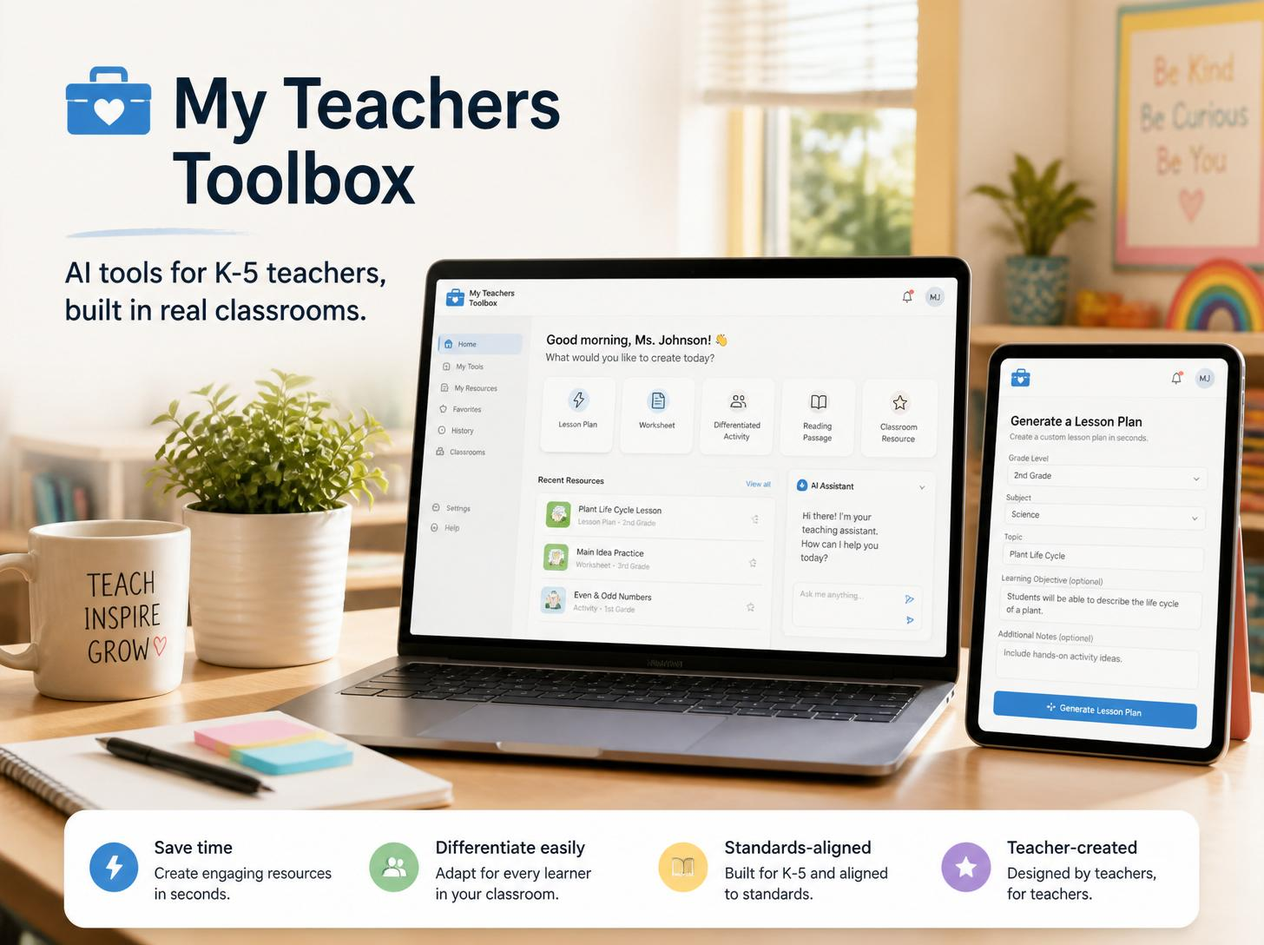
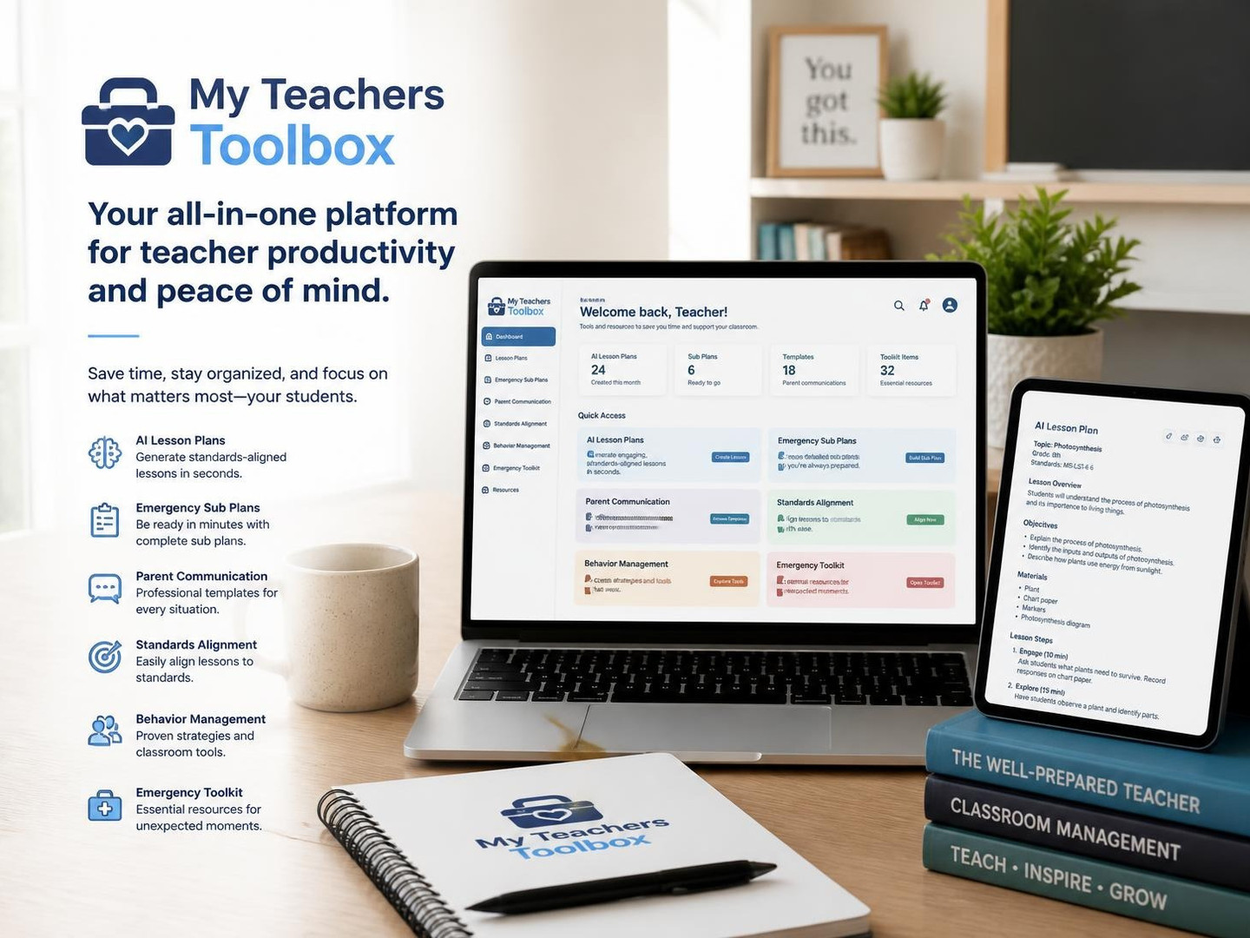
Fix sitemap and refresh product content
This change updates the My Teacher's Toolbox product marketing copy, stack details, pricing, feature architecture, and hero aspect ratio support for the 4:3 product image. It also replaces the product image and corrects the sitemap/robots metadata to reflect the app's HashRouter setup, removing invalid crawl targets and keeping the homepage as the only valid indexed URL until the app switches to browser routing.

diff --git a/src/data/products.js b/src/data/products.js
@@ -8,163 +8,183 @@ export const products = [
     status: 'live',
     category: 'EdTech SaaS',
     summary:
-      'A suite of AI-assisted planning, worksheet, and report-writing tools built for elementary teachers drowning in admin work.',
+      'A production planning, communication, and emergency-response platform for elementary teachers — AI week plans, sub bundles in under a minute, live standards search for all 50 states, and a parent portal, on one subscription.',
     problem:
-      'K-5 teachers spend 7–10 unpaid hours a week on lesson prep, differentiated worksheets, and report comments — work that AI could compress into minutes, but existing tools were built for generic "content creation," not the classroom.',
+      'K-5 teachers lose 7–10 unpaid hours a week to lesson prep, sub plans, standards paperwork, and parent communication. The tools that exist are priced for districts, designed for administrators, or generic "content generators" that have never met a five-minute prep period — and none of them help at 5am when a teacher wakes up sick and still owes a substitute a full day of plans.',
     solution:
-      'A focused toolbox built by a developer whose wife has 20+ years of K-5 classroom experience: standards-aligned lesson generators, instant worksheet differentiation by reading level, and report-comment writers trained on real teacher voice — wrapped in an interface simple enough to use during a five-minute prep period.',
+      'One platform, built by a developer whose wife has taught K-5 for twenty years and who uses it every day. A full week of standards-aligned plans generates in about ninety seconds, streamed so she watches it build. An emergency sub bundle — routines, schedule, student notes, activities — comes out in under a minute. Standards search runs live against the actual framework for whichever of the 50 states she teaches in, not a generic Common Core dump. Parents get a read-only class portal with no account to create. And anyone can walk the entire product without signing up, through a fenced public demo.',
     stack: [
-      'Next.js 15', 'React 19', 'TypeScript', 'Supabase', 'PostgreSQL',
-      'Stripe', 'Tailwind CSS', 'DeepSeek', 'OpenAI Embeddings',
-      'jsPDF', 'pdf-lib', 'docx', 'Zod', 'Sentry', 'Vercel',
+      'Next.js 15', 'React 19', 'TypeScript 5.7', 'Supabase', 'PostgreSQL',
+      'Row Level Security', 'Stripe v17', 'Tailwind CSS', 'Radix UI',
+      'Framer Motion', 'OpenRouter', 'DeepSeek V3', 'Perplexity Sonar Pro',
+      'OpenAI Embeddings', 'Groq Whisper', 'jsPDF', 'pdf-lib', 'docx',
+      'mammoth', 'Zod', 'Vitest', 'Google Drive API', 'Vercel', 'Node 22',
     ],
     results: [
       { label: 'Avg. weekly time saved', value: '6.5 hrs' },
-      { label: 'Uptime', value: '99.98%' },
+      { label: 'State standards frameworks', value: '50' },
       { label: 'Grade levels covered', value: 'K–5' },
     ],
     image: '/images/products/product-my-teachers-toolbox.jpg',
+    // 4:3 source — the detail hero renders at 4:3 so the logo and the desk
+    // shot below it survive; every other product stays on the 16:10 default.
+    heroAspect: '4/3',
 
     // ── Expanded showcase content ──────────────────────────────────────────────
     stats: [
-      { number: '81K+', label: 'Lines of Code' },
-      { number: '99', label: 'API Routes' },
-      { number: '71', label: 'Components' },
-      { number: '12', label: 'Emergency Sections' },
-      { number: '5', label: 'AI Systems' },
-      { number: '15', label: 'Dashboard Modules' },
+      { number: '78K+', label: 'Lines of TypeScript' },
+      { number: '105', label: 'API Routes' },
+      { number: '68', label: 'Database Tables' },
+      { number: '41', label: 'Dashboard Screens' },
+      { number: '50', label: 'States Covered' },
+      { number: '10', label: 'Emergency Categories' },
     ],
     overview: [
-      'My wife Criste has been teaching K-5 for over twenty years. Every morning she juggled five different apps, three browser tabs, and a paper binder just to plan one day of instruction. When she woke up sick at 5am, creating substitute plans meant an hour of frantic typing before the school day started. The tools available were designed for administrators, priced for districts, or built by people who\'d never stood in front of a classroom.',
-      'So I built her one. Not a prototype — a real platform. AI-powered lesson plans in 90 seconds. Emergency sub plans ready before the bus arrives. Parent communication templates, standards alignment, behavior management tools, and an entire emergency toolkit with 12 categories of solutions for everything that can go wrong in a school day. She uses it every single day — not because she has to, but because it actually saves her time.',
+      'My wife Criste has taught K-5 for over twenty years. Every morning she juggled five apps, three browser tabs, and a paper binder just to plan one day of instruction. When she woke up sick at 5am, writing substitute plans meant an hour of frantic typing before the first bus. The tools on the market were priced for districts, designed for administrators, or built by people who had never stood in front of twenty-four seven-year-olds.',
+      'So I built her one — and then I kept building. It is now 105 API routes and 68 database tables behind a 41-screen workspace: AI week plans in about ninety seconds, an emergency toolkit covering the ten categories of things that actually go wrong in a school day, standards search that queries the real framework for any of the 50 states, curriculum mapping, a parent portal, Google Drive export, and a public demo anyone can walk into without signing up. She still uses it every day. That is the only feature test that has ever mattered here.',
     ],
     features: [
       {
         icon: '🧠',
         name: 'AI Week Planner',
-        desc: 'Complete weekly lesson plans in 90 seconds. Enter your grade level, subjects, standards targets, and any special notes — the AI generates a full 5-day plan across all subjects with objectives, materials lists, differentiation strategies, and classroom management tips. Custom-engineered prompts (176 lines) ensure K-5 specificity rather than generic lesson content. Plans are standards-aligned by default and can be refined section-by-section with the inline refinement toolbar. Save plans to your library, duplicate and modify for the following week, or export directly to PDF and DOCX.',
-        tags: '90-second generation · 5-day full coverage · standards-aligned · inline refinement · save, duplicate, export',
+        desc: 'A complete five-day plan across every subject in about ninety seconds. Enter grade level, subjects, standards targets and any notes, and the planner returns objectives, materials, differentiation, and management notes for each day. The prompt behind it is 194 lines of K-5-specific engineering rather than a generic education template, and generation streams over server-sent events so the teacher watches the week build instead of staring at a spinner. Any single day or single subject can be regenerated on its own without disturbing the rest of the week, and any section can be refined inline. Plans save to a library, duplicate forward for the following week, and export to PDF or DOCX.',
+        tags: '~90-second full week · streamed generation · regenerate one day or one subject · inline refinement · PDF + DOCX export',
       },
       {
         icon: '🚨',
         name: 'Emergency Toolkit',
-        desc: 'The most comprehensive emergency resource system built for K-5 teachers. 12 categories of solutions covering every scenario that disrupts a school day: substitute readiness, behavior intervention, safety protocols, SEL support, incident documentation, coverage coordination, parent communication, field trip logistics, assessment tools, planning pivots, timesaving shortcuts, and calming strategies. Sub plans generate in under 60 seconds — class routines, schedules, student notes, and activity instructions all in one document. Accessible from every page of the platform.',
-        tags: '12 categories · sub plans in 60 seconds · behavior plans · safety protocols · always accessible',
+        desc: 'Ten categories covering what actually goes wrong in a school day: sub readiness, student safety and medical, coverage and schedule changes, planning triage, classroom management, assessment crunch, parent communication, SEL and student support, logistics and materials, and time savers. Thirty-nine dedicated endpoints sit behind them — sub bundles, behavior plans, incident reports, allergy cards, calming strategies, room reset checklists, supply lists, conference kits, translated parent emails. The emergency sub bundle assembles routines, schedule, student notes, and activities into one document in under a minute. Four one-tap actions are pinned at the top of the page for the moments when there is no time to browse anything.',
+        tags: '10 categories · 39 endpoints · sub bundle in under a minute · incident + allergy documentation · one-tap emergency actions',
+      },
+      {
+        icon: '📐',
+        name: 'Standards Search — All 50 States',
+        desc: 'Most standards tools ship a Common Core dump and call it national coverage. This one carries the real framework name and Department of Education domain for all fifty states — Texas TEKS, Virginia SOL, Alabama Course of Study, and forty-seven others — and runs each query through Perplexity Sonar Pro with live web search scoped to that state\'s own DOE domain. Results come back as current standards with codes and full descriptions, attachable straight to a lesson plan. Coverage reporting shows what has been addressed across a unit and what has been missed. Common Core and NGSS remain available for the states that use them.',
+        tags: '50 state frameworks · live search scoped to each state DOE · codes + full descriptions · attach to plans · coverage gap reporting',
+      },
+      {
+        icon: '🏫',
+        name: 'Parent Portal',
+        desc: 'A public, read-only class page parents reach with a short code — no account, no app, no password reset email at 9pm. The teacher posts newsletters, homework, events, and announcements from the dashboard, pins what matters, and toggles each section on or off independently. Welcome message, grade level, and theme color are configurable, and the whole portal switches off in one click at the end of the year. It closes the loop the Communication Hub opens: templates and newsletters go out, and the portal is where they live afterwards.',
+        tags: 'code-based access · no parent account required · newsletters, homework, events, announcements · per-section visibility · one-click off',
       },
       {
         icon: '💬',
         name: 'Communication Hub',
-        desc: 'Every parent-facing communication a teacher needs, built in and ready to use. The Newsletter Builder generates professional class newsletters with classroom updates, upcoming events, learning highlights, and volunteer opportunities — with tone customization between formal, warm, and casual. The Email Template Library covers 30+ scenarios: field trip reminders, behavior notices, positive updates, IEP invitations, conference scheduling, and more. A Communication Log tracks every parent interaction by student.',
-        tags: 'newsletter builder · 30+ email templates · conference prep · communication log · PDF + email export',
+        desc: 'A newsletter builder with tone control between formal, warm, and casual. A template library covering the messages teachers actually have to write — behavior notices, positive updates, field trip reminders, IEP invitations, conference scheduling. A conference prep tool that assembles talking points per student. And a communication log that records every parent interaction against the student it concerned, so the history exists when it is needed. Emergency parent emails have their own generator, including translation, for the messages that cannot wait for a good moment.',
+        tags: 'newsletter builder · tone control · template library · conference prep · per-student communication log · translated parent emails',
       },
       {
-        icon: '📐',
-        name: 'Standards Search & Alignment',
-        desc: 'A fully searchable standards library with semantic search powered by OpenAI Embeddings. Search by keyword, grade level, domain, or subject and get instant results with full standard descriptions and sub-components. Alignment tools let you attach standards directly to lesson plans and verify complete coverage across units. Coverage reporting shows standards addressed, frequency, and flagged gaps. Standards data organized by Common Core ELA and Math, NGSS Science, and Social Studies frameworks.',
-        tags: 'semantic search · OpenAI Embeddings · coverage tracking · gap analysis · auto-tagging in AI plans',
+        icon: '🗺',
+        name: 'Curriculum Mapping',
+        desc: 'Scope and sequence above the week level. Curriculum units and year-long maps hold the long-range shape of instruction, and the week planner draws from them so daily plans and the map cannot quietly drift apart over a term. Pacing tools flag when a unit is running behind. Curriculum documents export in a format that survives being handed to an administrator without reformatting.',
+        tags: 'units + year-long maps · feeds the week planner · pacing triage · administrator-ready document export',
       },
       {
         icon: '📋',
         name: 'Daily Runsheet',
-        desc: 'Takes your weekly lesson plan and breaks it into an actionable minute-by-minute guide for each school day. The AI-generated runsheet adapts to your school\'s specific schedule blocks — specials, lunch, recess, intervention periods — and builds transitions, prep reminders, and material setup notes into the timing. Custom time blocks let you set your exact schedule. Runsheets print cleanly on a single page or display on-screen. Generated from your weekly plan automatically — no re-entering content.',
-        tags: 'minute-by-minute scheduling · custom time blocks · transition reminders · prep notes · auto-generated from weekly plan',
+        desc: 'Takes the weekly plan and breaks each day into a minute-by-minute guide that respects the school\'s real schedule — specials, lunch, recess, intervention blocks — with transitions, prep reminders, and material setup built into the timing rather than bolted on. Custom time blocks match the actual bell schedule. It is generated from the plan already written, so nothing is entered twice, and it prints cleanly on a single page for the desk.',
+        tags: 'minute-by-minute · custom bell schedule · transition + prep reminders · auto-generated from the weekly plan · single-page print',
       },
       {
         icon: '👥',
-        name: 'Student Teams & Collaboration',
-        desc: 'Full student roster management with grade team collaboration. Maintain a complete student list with grade level, notes, and flags. Professional-tier teachers can share resources across classrooms — send a lesson plan, activity, or document directly to another teacher on your grade team without leaving the platform. The collaboration system is designed around how actual grade teams work: asynchronous sharing, not real-time co-editing, because teachers are busy and have different prep periods.',
-        tags: 'student roster management · grade team sharing · resource pooling · private notes · async collaboration',
+        name: 'Students & Grade Teams',
+        desc: 'Full roster management with per-student notes, goals, action items, and communication history. Grade teams share resources asynchronously — send a plan, activity, or document to a colleague on the grade team, with version history and threaded comments on each shared resource. Asynchronous by design, not by limitation: grade teams have different prep periods, and real-time co-editing was never the shape of that problem.',
+        tags: 'roster + private notes · student goals and action items · async grade-team sharing · resource versions · threaded comments',
       },
       {
         icon: '📄',
-        name: 'Document Generator',
-        desc: 'A complete document pipeline for classroom materials. PDF generation via jsPDF and pdf-lib handles lesson plan exports, runsheets, curriculum documents, and any structured content from the platform. DOCX generation via the docx package creates editable Word documents. The Name Label Generator produces classroom-ready printable name tags and desk labels — Avery-compatible sizes, ready to print. Curriculum document builder creates scope-and-sequence documentation formatted for professional presentation to administrators.',
-        tags: 'PDF export · DOCX export · name label generator · curriculum documents · Avery-compatible label sizes',
+        name: 'Documents & Google Drive',
+        desc: 'PDF generation through jsPDF and pdf-lib, DOCX through the docx package, with multi-page headers, footers, and page numbering handled properly. The name label generator outputs Avery-compatible desk labels and name tags ready to print. Existing material can be read back in — mammoth for DOCX, pdf-parse for PDF — so a teacher\'s own documents can feed the tools rather than being retyped. Google Drive is wired in with full OAuth connect, callback, and disconnect, encrypted token storage, and direct save-to-Drive on anything generated.',
+        tags: 'PDF + DOCX export · Avery-compatible labels · DOCX + PDF import · Google Drive OAuth · encrypted token storage',
       },
       {
         icon: '🎮',
-        name: 'Activity Library',
-        desc: 'A searchable database of classroom-ready activities built for K-5 instruction. Filter by subject (ELA, Math, Science, Social Studies, SEL), grade level (K through 5), activity type (whole class, small group, individual, station), time required, and materials needed. Each activity includes full instructions, differentiation suggestions, and implementation notes. A ratings system lets you mark favorites and rate after use. The AI Activity Generator creates custom activities on demand. Activities integrate directly into lesson plans.',
-        tags: 'multi-filter search · subject · grade · type · time · ratings system · AI activity generation · plan integration',
+        name: 'Activity Generator',
+        desc: 'There is no preset library here — every activity is written fresh, on demand, for the class asking. Pick the grade, the subject (eight of them, from math and ELA through PE, music, and SEL/character ed), how many minutes are actually left, the grouping (individual, partner, small group, whole class, or centers), and what materials are within reach — including "none, no prep" for the days that call for it. DeepSeek V3 returns a title, step-by-step instructions, a materials list, an assessment strategy, and differentiation for both ends of the room, streamed as it writes. If it lands close but not right, refine it inline and revert to the original in one click. Save the keepers to your own collection. Nothing comes out of a canned bank, so it fits the classroom you actually have rather than the one a content library imagined.',
+        tags: 'nothing preset — generated per request · 8 subjects · 10–60 minutes · 5 grouping types · materials-aware, including no-prep · inline refine + revert · save your own',
       },
       {
-        icon: '⚡',
-        name: 'Timesavers',
-        desc: 'The small tasks that steal hours from a teacher\'s week — automated. Automated reminders surface upcoming deadlines, parent communication follow-ups, and curriculum coverage gaps before they become problems. Batch documentation tools handle repetitive paperwork: generate multiple parent updates at once, process a full week of reflection notes in one session, or create a complete set of conference summaries from short bullet-point input. The Quick Wins section surfaces actions that take under two minutes but have high impact.',
-        tags: 'automated reminders · batch documentation · quick wins panel · tech tutorials · coverage gap alerts',
+        icon: '🎙',
+        name: 'Reflection Coach',
+        desc: 'Teachers talk their reflection instead of typing it at the end of a day that has already taken everything. Audio goes to Groq Whisper for transcription, the text is embedded with OpenAI text-embedding-3-small, and the coach reads across the whole reflection history semantically rather than only the last entry — so it surfaces the pattern the teacher has stopped noticing. Reflection insights feed professional goals, which are tracked as first-class records rather than a free-text field nobody revisits.',
+        tags: 'voice-first · Groq Whisper transcription · semantic history via embeddings · pattern surfacing · linked to professional goals',
       },
     ],
     architecture: [
       {
         label: 'Frontend',
-        content: 'Next.js 15 App Router with React 19 Server Components. 71 components across 16 module directories — planner, communication, documents, emergency, standards, activities, AI, and more. Component library built on Radix UI with Tailwind CSS. Sonner for toast notifications. Lucide Icons throughout. Full responsive design for tablet and desktop.',
+        content: 'Next.js 15 App Router with React 19 Server Components. 72 components across 17 module directories — planner, emergency, communication, documents, standards, activities, teams, analytics, notifications, onboarding, demo and more — built on Radix UI primitives with Tailwind CSS. Framer Motion for transitions, Lucide for icons. 41 dashboard screens sit behind auth, alongside a public marketing surface: landing, our story, schools, parents, and a seven-article SEO blog.',
       },
       {
         label: 'Backend & Database',
-        content: '99 API routes handling lesson generation, communication, document creation, export, Stripe billing, user management, standards search, and the complete emergency toolkit. Supabase PostgreSQL with tables for profiles, lesson plans, activities, standards, favorites, API usage tracking, and billing. Row Level Security on all tables for multi-tenant data isolation.',
+        content: '105 API routes over Supabase Postgres with 68 tables. Row Level Security on user-owned data, so a teacher can only ever read their own plans, students, and communications. Auth runs through @supabase/ssr with session refresh in middleware on every non-asset request. Per-route rate limiting is enforced by a Postgres RPC and tiered by output-token cost — heavy generation endpoints get 5 requests a minute, light ones 10 — so exhausting the planner budget never locks a teacher out of the emergency toolkit.',
       },
       {
         label: 'AI Layer',
-        content: 'DeepSeek integration with 5 custom prompt systems — lesson generation, week planning, newsletter writing, runsheet creation, and reflection coaching. Each prompt is purpose-engineered for K-5 specificity, not generic education. OpenAI Embeddings power semantic standards search. Caching layer reduces AI API costs on repeated similar requests. AI usage tracked per user account for rate limiting on free tier.',
+        content: 'OpenRouter is the single gateway. DeepSeek V3 handles generation with a pinned provider order (deepseek → novita → fireworks), a hard 90-second timeout, and OpenRouter usage accounting switched on so every call logs its real dollar cost rather than an estimate. Perplexity Sonar Pro handles state standards search with live web access. OpenAI text-embedding-3-small powers semantic reflection search, and Groq Whisper handles transcription at roughly a tenth of OpenAI\'s rate. Purpose-built prompt systems for week planning, runsheets, newsletters, and reflection coaching — no shared generic template.',
       },
       {
-        label: 'Export & Documents',
-        content: 'PDF generation via jsPDF and pdf-lib. DOCX generation via the docx package. Lesson plan exporter with formatting, layout options, and page break control. Name label generator with Avery-compatible label templates. Curriculum document builder with professional formatting for administration presentation. All exports handle multi-page documents with proper headers, footers, and page numbering.',
+        label: 'Export & Integrations',
+        content: 'PDF through jsPDF and pdf-lib, DOCX through the docx package, with dedicated exporters for lesson plans, curriculum documents, and printable classroom resources. Inbound parsing through mammoth and pdf-parse. Google Drive integration with OAuth connect, callback and disconnect, encrypted token storage, and direct save-to-Drive. An in-app notification system with per-user records, unread counts, and mark-all-read.',
       },
       {
-        label: 'Payments & Subscriptions',
-        content: 'Stripe integration with full subscription lifecycle management. Two tiers: Essential ($19.99/mo) and Professional ($29.99/mo). Checkout flow, customer portal for self-service upgrades/downgrades, and webhook handling for subscription state changes. Free trial period with plan feature enforcement via subscription status checks on every protected route.',
+        label: 'Billing & Access Control',
+        content: 'Stripe v17 with one product at two billing intervals — $10/month and $69/year — and no feature gating between them. A 14-day trial activates at signup without a card. Webhooks verify the Stripe signature before touching subscription state, and processed event IDs are recorded so a replay cannot double-apply. Access is checked server-side on every protected route through requireActiveSubscription, which owns a 3-day past-due grace window; the client-side check is display-only and never guards data. Tier values written by the retired two-tier model still resolve as paying customers, so no live account needed a migration.',
       },
       {
-        label: 'Monitoring & Infrastructure',
-        content: 'Vercel deployment with edge functions for performance. Sentry error tracking with source maps for production debugging. Vercel Analytics for usage patterns and page performance. Zod validation on all API inputs. SEO-optimized blog with 3 published content articles, dynamic routing, sitemap.xml, and robots.txt. Middleware for auth verification on all protected routes.',
+        label: 'Public Live Demo',
+        content: 'The entire product is walkable without an account. Visitors are signed into one shared Supabase account behind a default-deny path allowlist in middleware: nothing is reachable unless it is on the list, so a route added anywhere in the app can never accidentally become publicly reachable. Section slugs are opaque keys resolved server-side rather than redirect targets, which removes the open-redirect class outright. Writes are refused separately from reads and return a structured demo_locked response the UI turns into a signup prompt. A nightly cron wipes demo content while preserving the rolling usage budget.',
       },
     ],
     security: [
-      { title: 'Row Level Security', desc: 'All database tables enforce RLS. Teachers only access their own students, plans, and data.' },
-      { title: 'Auth Middleware', desc: 'Supabase Auth with session verification on every protected route. No unauthenticated API access.' },
-      { title: 'Webhook Verification', desc: 'All Stripe events verified with signing secret before processing subscription changes.' },
-      { title: 'Input Validation', desc: 'All API inputs validated with Zod schemas. Malformed requests rejected at the API layer.' },
-      { title: 'AI Context Isolation', desc: 'No student or teacher data persists in AI model context between sessions.' },
-      { title: 'Error Monitoring', desc: 'Sentry captures all production errors with source maps. No sensitive data in error payloads.' },
+      { title: 'Row Level Security', desc: 'RLS on user-owned tables. A teacher\'s plans, students, notes, and communications are unreachable from any other account.' },
+      { title: 'Session Middleware', desc: 'Supabase auth session refreshed in middleware on every non-asset request. Protected routes verify server-side, never in the client.' },
+      { title: 'Zod Request Validation', desc: 'Request bodies parsed through strict Zod schemas via a shared parseRequestBody helper — 85 of the 105 API routes carry one.' },
+      { title: 'Webhook Verification', desc: 'Stripe events verified with the signing secret before any subscription write, and processed event IDs stored so replays are idempotent.' },
+      { title: 'Tiered Rate Limiting', desc: 'Per-user, per-route limits enforced by a Postgres RPC and tiered by request cost. Anonymous endpoints carry their own separate budget.' },
+      { title: 'Demo Default-Deny Fence', desc: 'The public demo account reaches only an explicit path allowlist. New routes are unreachable by default rather than reachable by default.' },
     ],
     pricing: {
       model: 'subscription',
+      note: 'One plan, one feature set. Monthly and yearly unlock exactly the same product — the yearly option exists so teachers who do not want to pay through the summer can buy the year up front. Every account starts with a 14-day free trial, no card required.',
       tiers: [
         {
-          tier: 'Essential',
-          price: '$19.99',
+          tier: 'Full Access — Monthly',
+          price: '$10',
           period: '/mo',
           featured: false,
           features: [
-            'Up to 20 AI lesson plans/month',
+            'Unlimited AI lesson plans',
             'Full Emergency Toolkit access',
             'Standards search & alignment',
             'Newsletter & email builder',
+            'Student team collaboration',
+            'Grade team resource sharing',
+            'Downloadable materials generation',
+            'AI activity library',
+            'Conference prep tools',
             'PDF exports',
             'Tech tutorials library',
+            'Priority support',
           ],
         },
         {
-          tier: 'Professional',
-          price: '$29.99',
-          period: '/mo',
+          tier: 'Full Access — Yearly',
+          price: '$69',
+          period: '/yr',
           featured: true,
           features: [
-            'Unlimited AI lesson plans',
-            'Everything in Essential, plus:',
-            'Grade team resource sharing',
-            'Student team collaboration',
-            'Downloadable materials generation',
-            'AI Activity Library',
-            'Conference prep tools',
-            'Priority support',
+            'Identical feature set — nothing is gated',
+            'Saves $51 against twelve months of monthly',
+            'Covers July and August without pausing',
+            'Billed once a year',
+            '14-day free trial, no card to start',
           ],
         },
       ],
     },
   },
-
   // ─── UnderFire AI ────────────────────────────────────────────────────────────
   {
     slug: 'underfire-ai',

diff --git a/src/pages/ProductDetail.jsx b/src/pages/ProductDetail.jsx
@@ -65,7 +65,9 @@ export default function ProductDetail() {
               data-aiwp-slot={18 + productIndex}
               src={product.showcaseImage || product.image}
               alt={`${product.name} product preview`}
-              className="block w-full aspect-[16/10] object-cover"
+              className={`block w-full object-cover ${
+                product.heroAspect === '4/3' ? 'aspect-[4/3]' : 'aspect-[16/10]'
+              }`}
             />
           </div>
         </Reveal>
